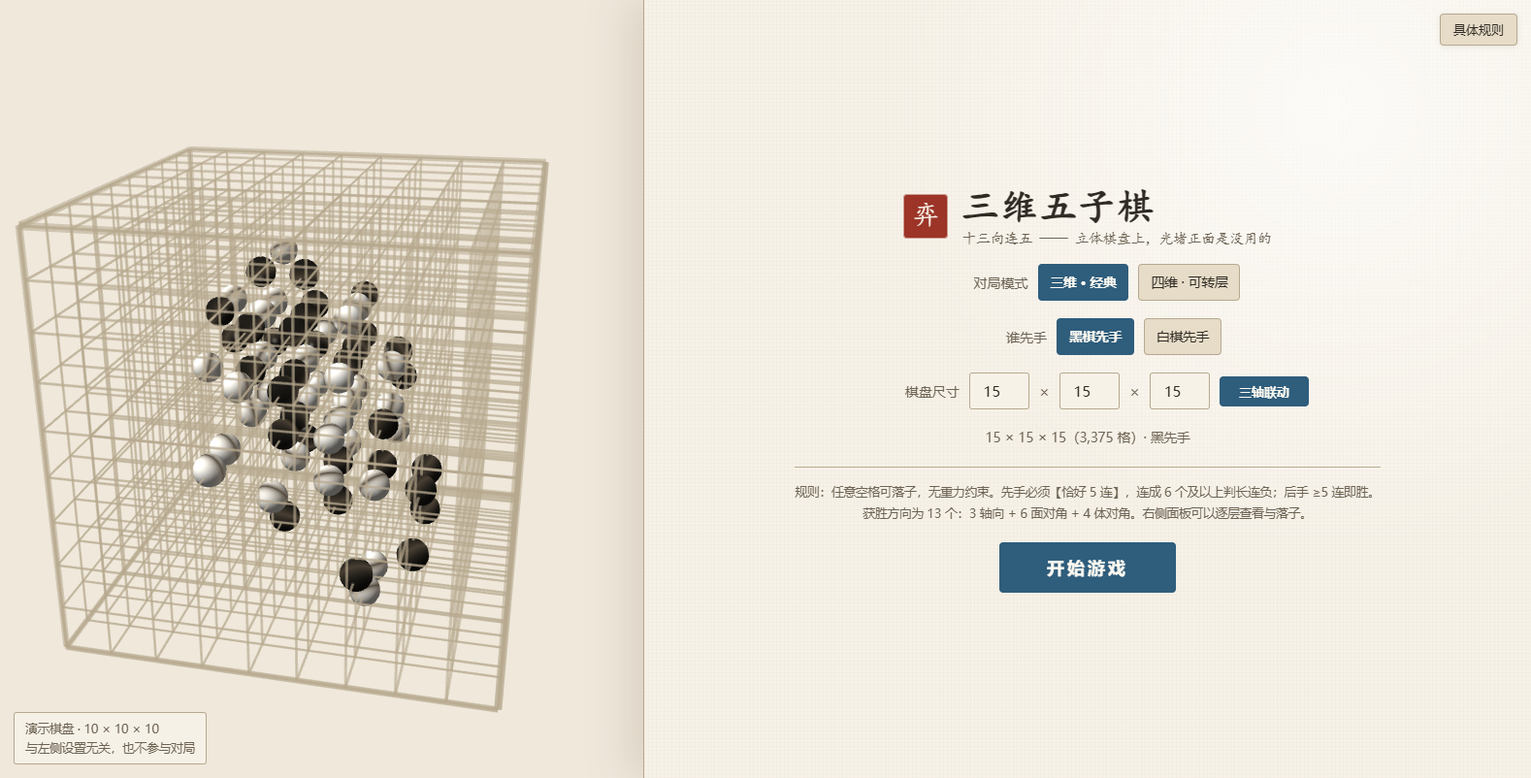
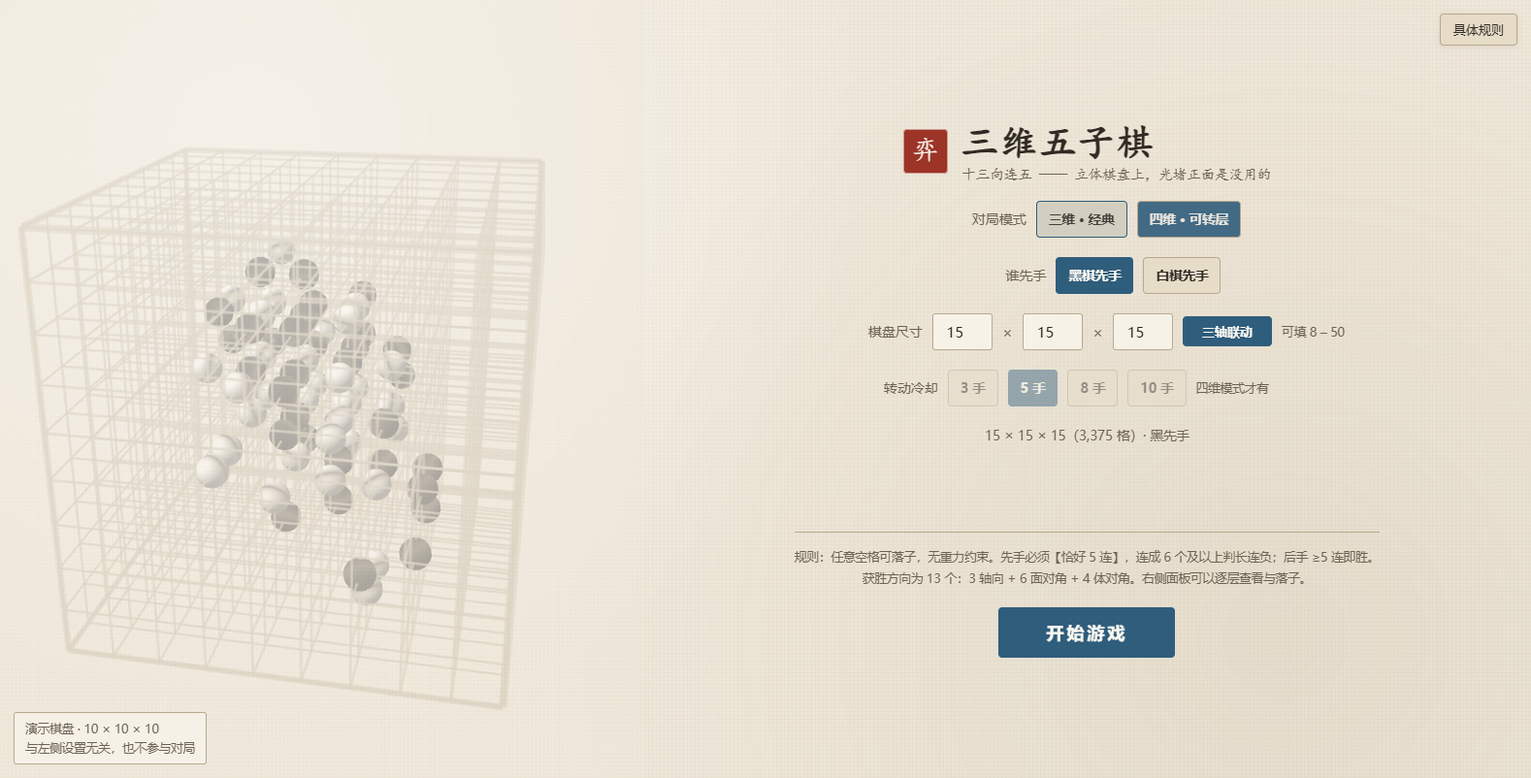
起始界面：模式切换时按钮不动、标出尺寸范围、消除左右接缝
三条都是起始界面的体验问题。核心约束是**演示棋盘一个像素都不动** ——
所以 `#view` 的 flex-basis 和 `#setup` 的 left 仍然是同一个 42%，没碰。

一、按钮位置（原来是两个跳动源，不是一个）

  ① 模式相关的三行原来用 display:none 切换，行数一变、居中的整列重排，所有行一起跳。
     改成保留槽位地藏（visibility:hidden），两种模式总高恒等。
  ② #sizeSummary 的文案长度在两种模式间差一倍以上（三维 2 行、四维最多 6 行），
     它下面的规则摘要和「开始游戏」按钮照样跳。给它固定高度，写不下时内部滚动。

  顺带：
  - 三维/四维的尺寸行叠进同一个网格格子里（#dimsSlot）。格子高度取两者的 max，
    而两条**永远都在格子里**（只是其中一条不可见），所以无论窗口多窄、哪一条换了行，
    高度都和"显示哪一条"无关 —— 这让 .row 可以保留 flex-wrap: wrap 而不引入位移。
    不叠的话两种模式各会多出一条 58px 的空当，看起来像没渲染完。
  - 「转动冷却」行在三维下也占槽位（按钮禁用 + "四维模式才有"），不是藏起来。
  - #setup 里所有行内按钮固定成粗体。原来 button.sel 带 font-weight:600，
    取消选中后字变细、按钮变窄（实测 94→91px），同一行居中的邻居跟着挪。

二、尺寸范围：三维行和四维行右侧各加一个「可填 8 – 50」。
  文字由 JS 从内核的 BoardLimits 现算，不写死在 HTML 里。
  四维那句"必须立方（转层要求另两轴等长）"原来是独立的 <span id="dimNote">，
  并进了同一个标注里 —— 它是那一行唯一会换行的地方，而换行会让槽位不等高。

三、接缝：成因不是色差（画布清屏色本来就是 --bg，和页面底色同色），
  而是**纸纹只画在 <body> 上、被画布盖住了左边 42%**。修法：
  - #setup 去掉背景、border-left、box-shadow（割裂感来自这三样）
  - #view 补上同一份纸纹，并用 background-attachment: fixed 让渐变的定位基准是
    整个视口而不是那个 42% 宽的盒子；没有 fixed 的话两边纸纹对不上，缝还在
  - #gl 用 CSS opacity 压淡演示棋盘。**不碰调色板和着色器** ——
    演示盘和对局盘共用同一个 draw3D()，改调色板会把真棋盘也改淡，
    而淡底上白子只有 1.3:1 对比度，全靠 --stone-edge 那圈描边才看得见
  - 纸纹抽成 :root 里的 --paper-img，两边共用一份，避免抄两份后各自漂移

browser-check 断言：换掉 1 条（旧设计要求 #setup 不透明；新设计要求它透明，
所以改成守那个真正的前提 —— #panel 必须隐藏），新增 14 条，其中
「切到四维再切回来，按钮的 l/t/w/h 完全不变」是核心 —— 那条**只有真实排版引擎能验**，
DOM 桩的 getBoundingClientRect 对所有元素一律返回 800×600，在桩里恒真。
窄屏那组带一条反空洞断言：先确认 900×700 下尺寸行确实换了行，否则后面那条是空断言。
[…]

diff --git a/Web_Gomoku3D/index.html b/Web_Gomoku3D/index.html
@@ -40,19 +40,22 @@
     /* 棋子描边色。淡底上白子和底色只有 1.3:1，光靠填充色是看不见的，
        必须靠这圈深色轮廓才能读出来 —— 二维面板和三维着色器用的是同一个颜色。 */
     --stone-edge: #4a4034;
-  }
-  * { box-sizing: border-box; }
-  /* 宣纸质感：全部用 CSS 渐变叠出来，不引任何外部图片 —— 这是 file:// 单文件的前提。
-     两个大半径 radial 当晕染，两组 1px 交叉细纹当纸纤维（alpha 只有 0.03，
-     是"能感觉到"的量级，再高就变成条纹布了）。 */
-  .paper {
-    background-color: var(--bg);
-    background-image:
+    /* 宣纸质感：全部用 CSS 渐变叠出来，不引任何外部图片 —— 这是 file:// 单文件的前提。
+       两个大半径 radial 当晕染，两组 1px 交叉细纹当纸纤维（alpha 只有 0.03，
+       是"能感觉到"的量级，再高就变成条纹布了）。
+
+       【为什么它是变量而不是直接写在 .paper 里】：三维画布也要用同一份 ——
+       见下面的 `#stage.preview #view`。两边各抄一份的话，改了这里忘了那里，
+       起始界面左右之间就会重新裂出一条缝，而且那种缝看起来像"显示器问题"，
+       不像代码问题。 */
+    --paper-img:
       radial-gradient(circle at 16% 18%, rgba(255,255,255,.60), transparent 44%),
       radial-gradient(circle at 84% 82%, rgba(150,126,86,.11), transparent 50%),
       repeating-linear-gradient(0deg,  rgba(122,102,70,.030) 0 1px, transparent 1px 4px),
       repeating-linear-gradient(90deg, rgba(122,102,70,.030) 0 1px, transparent 1px 4px);
   }
+  * { box-sizing: border-box; }
+  .paper { background-color: var(--bg); background-image: var(--paper-img); }
   html, body {
     margin: 0; padding: 0; height: 100%; overflow: hidden;
     color: var(--text);
@@ -76,6 +79,33 @@
      的 42% 跟着变宽、左侧画布尺寸跳一下。visibility:hidden 保留布局，只是不画。 */
   #stage.preview #panel { visibility: hidden; }
   #stage.preview #gl { cursor: default; }
+
+  /* 起始界面：把左边的三维画布也铺上一层纸纹，让左右真的是同一张纸。
+
+     缝的真正成因不是色差（画布清屏色和页面底色都是 --bg，本来就同色），而是
+     **纸纹只画在 <body> 上，被画布盖住了左边 42%** —— 左边是平色、右边有纸纹
+     （那个 rgba(255,255,255,.60) 的白色径向在 16% 18% 处，强度不低），
+     于是在 42% 那条线上断掉。
+
+     关键是 `background-attachment: fixed`：它让渐变的【定位基准是整个视口】，
+     而不是 #view 自己那个 42% 宽的盒子。没有它，同一个 "16% 18%" 在 #view 里
+     会落在 16% × 0.42 ≈ 视口 6.7% 处，右边却是 16%，两边对不上、缝还在。
+
+     background-color 是不透明的 --bg：把底下 <body> 的纸纹挡住，
+     否则这一层会和 body 那一层叠起来，左上角那个白色径向被叠加两次、明显偏亮。 */
+  #stage.preview #view {
+    background-color: var(--bg);
+    background-image: var(--paper-img);
+    background-attachment: fixed;
+  }
+  /* 演示棋盘整体压淡。**这里刻意用 CSS opacity，不去改调色板或着色器** ——
+     演示盘和对局盘共用同一个 draw3D() 和同一批着色器，改调色板等于把真棋盘也改淡，
+     而 README 里写着"淡底上白子和底色只有 1.3:1，全靠 --stone-edge 那圈描边才看得见"。
+     规则限定在 .preview 上，对局视图一个像素都不受影响。
+
+     画布的清屏色就是 --bg，所以压到 30% 之后自然叠成"淡墨画在纸上"，
+     而不是"深色棋盘的半透明残影"。 */
+  #stage.preview #gl { opacity: .3; }
 
   /* ---------- 左侧：三维视图 ---------- */
   #view { flex: 0 0 42%; position: relative; overflow: hidden; }
@@ -173,18 +203,29 @@
   /* ---------- 起始界面 ----------
      左边 42% 刻意【不盖住】—— 那一块留给 #view 里那张自动缓慢旋转的演示棋盘，
      所以这里用 left:42% 而不是 inset:0。42% 必须和上面 #view 的 flex-basis 是同一个数，
-     改一个就得改另一个，否则中间会裂出一条缝（或压掉半个棋盘）。 */
+     改一个就得改另一个，否则中间会裂出一条缝（或压掉半个棋盘）。
+
+     【这里刻意什么都不画】。原来它是一块 --panel 色的不透明盖板，外加一条
+     border-left 和一片向左的 box-shadow —— 那三样加起来就是"左右割裂感"的全部来源，
+     不是色差本身：三维画布的清屏色本来就是 --bg（见 Renderer.init 里的 clearColor），
+     和页面底色是同一个色。所以只要这边不画东西、左侧的纸纹补上（见下面
+     `#stage.preview #view` 那一条），左右就是同一张纸，中间没有缝。
+
+     透明会不会让底下的字透上来？不会 —— 底下是 #panel，而起始界面打开时它是
+     visibility:hidden（见 #stage.preview #panel），一个字都不画。
+     这条依赖是硬性的：那个 hidden 一旦被去掉，这里就会透出面板的文字。
+     browser-check.mjs 里有一条断言同时守着这两件事。 */
   #setup {
     position: fixed; left: 42%; right: 0; top: 0; bottom: 0; z-index: 50;
-    display: flex; flex-direction: column; align-items: center; justify-content: center;
+    display: flex; flex-direction: column; align-items: center;
     gap: 18px; padding: 26px 30px; overflow-y: auto;
-    background-color: var(--panel);   /* 不透明。半透明盖板会让底下的字透上来 */
-    background-image:
-      radial-gradient(circle at 78% 14%, rgba(255,255,255,.7), transparent 46%),
-      repeating-linear-gradient(0deg,  rgba(122,102,70,.028) 0 1px, transparent 1px 4px),
-      repeating-linear-gradient(90deg, rgba(122,102,70,.028) 0 1px, transparent 1px 4px);
-    border-left: 1px solid var(--border);
-    box-shadow: -18px 0 40px rgba(90,72,44,.13);
+    /* 居中，但溢出时改为从顶部开始 —— 这是 safe 关键字的全部作用。
+       没有它的话（也就是今天的行为），内容一旦高过视口，flex 的居中溢出会朝两头走，
+       而滚动区只从内容起点算 → **顶部那段永远滚不到**，表现为"最上面几行看不见了"。
+       第一行是给不认识 safe 的浏览器兜底的：它们会沿用 center，行为与改动前一致，
+       不是回归。 */
+    justify-content: center;
+    justify-content: safe center;
   }
   #setup.off { display: none; }
   /* 演示棋盘角落的铭牌。少了它，从对局里点「设置」进来的人会以为自己的棋局还在 ——
@@ -208,8 +249,36 @@
   #setup h1 { font-size: 38px; margin: 0; font-weight: 600; letter-spacing: 2px; }
   #setup .sub { color: var(--dim); font-size: 14.5px; margin-top: 4px; }
   .row { display: flex; align-items: center; gap: 10px; flex-wrap: wrap; justify-content: center; }
-  /* 模式相关的行：用 hide 而不是 style.display，免得和 .row 的 flex 打架 */
-  #setup .row.hide { display: none; }
+  /* 每一行占一个固定高度的槽位。三种模式相关的行（三维尺寸 / 四维尺寸 / 转动冷却）
+     高度都一样，所以"显示哪几行"不影响总高。 */
+  #setup .row { min-height: 40px; }
+  /* 模式相关的行：【保留槽位地藏起来】，不是 display:none。
+     三维和四维显示的行数不一样（四维多一个"转动冷却"行），用 display:none 的话
+     内容总高就变了，而父级是居中的 —— 于是整列重新居中，所有行一起上下跳。
+     保留槽位之后两种模式的总高**恒等**，按钮一个像素都不动。
+
+     .row 保持 flex-wrap: wrap（窗口窄的时候能换行），这本来会造成"换行的那一行更高、
+     槽位不等高"，但两条尺寸行被 #dimsSlot 叠进了同一个格子 ——
+     格子高度取两者的 max，而**两条永远都在格子里**（只是其中一条不可见），
+     所以无论窗口多窄、哪一条换了行，格子高度都和"显示哪一条"无关。
+     换成 nowrap 反而更糟：实测 900px 宽的窗口下三维尺寸行要 539px 而只有 462px 可用，
+     会横向溢出 —— 那就把"按钮跳动"换成了"内容被截掉"，更难发现。 */
+  #setup .row.hide { visibility: hidden; }
+  /* 三维尺寸行和四维尺寸行**叠在同一个网格单元格里**：两条都 40px，叠起来还是 40px，
+     而隐藏的那条（visibility:hidden）不额外占位。于是"显示哪一条"完全不改变总高，
+     两种模式下都是零空白 —— 留空槽位的话两种模式各会多出一条 58px 的空当。
+     副作用是好的：单元格宽度取两条里较宽的那条（三维行），所以两种模式下
+     "棋盘尺寸"这个标签的横坐标**也**是同一个；不叠的话它会随各自行的宽度左右挪。 */
+  #dimsSlot { display: grid; }
+  #dimsSlot > .row { grid-area: 1 / 1; }
+  /* 起始界面里每一行的按钮**始终**是粗体，选中态只改底色和字色。
+     起因是一个只有真实排版引擎才能发现的 3px 位移：button.sel 带 font-weight:600，
+     所以按钮一被取消选中，字变细、按钮跟着变窄（实测 94 → 91px），
+     而同一行是居中的 —— 邻居跟着挪。点一下"四维"结果"三维"跑偏了 3px，
+     正是这一版要消掉的那类干扰。
+     固定成粗体之后，按钮宽度只由文字内容决定，和选没选中无关。
+     （#startBtn 不在任何 .row 里，所以它保留 .sel 的粗体，主按钮的分量不受影响。） */
+  #setup .row button { font-weight: 600; }
   .rowLabel { color: var(--dim); width: 96px; text-align: right; flex: 0 0 auto; }
 
   /* 尺寸输入。原来是两排固定尺寸按钮（三维 15/20/25/30/40/50、四维 5/6/8/10/15/20），
@@ -223,10 +292,23 @@
   .dimInput.bad { border-color: var(--danger); color: var(--danger); }
   .dimTimes { color: var(--dim); font-size: 15px; }
   #dimCube { min-width: 92px; }
-  #dimNote { color: var(--dim); font-size: 12px; }
+  /* 行尾的补充说明（尺寸范围、转动冷却的注释）。文字全部由 JS 生成，不写死在 HTML 里 ——
+     写死的话它会和内核的实际约束各自漂移，而"范围"这种东西漂移了没人会发现，
+     只会表现为"填进去了但开不了局"。 */
+  .hint { color: var(--dim); font-size: 12.5px; white-space: nowrap; flex: 0 0 auto; }
+  /* 转动冷却行的说明。**宽度写死**：它的文字在两种模式下不一样长（三维 6 字、
+     四维 9 字），不写死的话这一行的总宽会变，而 .row 是居中的 ——
+     "转动冷却"四个字会跟着左右挪。写死了，两种模式下它一个像素都不动。 */
+  #coolNote { width: 11em; }
 
+  /* 固定高度。【这是按钮跳动的第二个根因，比行数变化更隐蔽】：
+     这段文案的长度在两种模式下差一倍以上 —— 三维 15³ 是 2 行，四维 8³ 因为有实测数据
+     会加到 4 行，15³ 再加"一层里常常只有一两颗子"那条能到 5~6 行。
+     不钉住它，下面的规则摘要和「开始游戏」按钮照样跟着上下跳。
+     写不下时在这块内部滚动，不影响外部布局。 */
   #sizeSummary { color: var(--dim); font-size: 13.5px; text-align: center; max-width: 640px;
-                 line-height: 1.7; white-space: pre-line; }
+                 line-height: 1.7; white-space: pre-line;
+                 height: 92px; overflow-y: auto; }
   #ruleNote { color: var(--dim); font-size: 12.5px; text-align: center; max-width: 660px;
               line-height: 1.8; border-top: 1px solid var(--border); padding-top: 14px; }
   #startBtn { font-size: 18px; font-weight: 600; padding: 13px 48px; letter-spacing: 3px; }
@@ -661,6 +743,12 @@
     <button id="firstWhite" data-first="2">白棋先手</button>
   </div>
 
+  <!-- 三维和四维的尺寸行**共用同一个槽位**（网格叠放，见 CSS 里的 #dimsSlot）。
+       两条都是 40px 高，所以叠起来还是 40px；隐藏的那条 visibility:hidden 不额外占位。
+       这样"三维显示哪条、四维显示哪条"完全不改变总高 —— 槽位重叠是这里唯一能做到
+       "零空白 + 零位移"的办法：留空槽位会在两种模式各留一条 58px 的空当，
+       看起来像没渲染完。 -->
+  <div id="dimsSlot">
   <!-- 三维模式：三个轴各填一个数，8..50。默认三轴联动（cubeOn），想下长方体就点掉它。
        长方体是【网页版独有】的扩展，没有测试向量覆盖，见 README 的说明。 -->
   <div class="row" id="dimsRow3d">
@@ -671,6 +759,10 @@
     <span class="dimTimes">×</span>
     <input id="dimZ" class="dimInput" type="number" min="8" max="50" step="1" value="15" inputmode="numeric">
     <button id="dimCube" class="mini sel">三轴联动</button>
+    <!-- 可填范围。**内容是空的**：文字由 syncSetupInputs() 从内核的 BoardLimits 现算，
+         一个字都不写死在这里 —— 写死的话它会和内核约束各自漂移，而"范围"这种东西
+         漂移了没人会发现，只表现为"填进去了但开不了局"。 -->
+    <span id="dimRange" class="hint"></span>
   </div>
 
   <!-- 四维模式：只能立方。不是"没做"，是数学上不成立 —— 绕某轴转一层要求
@@ -679,15 +771,28 @@
     <div class="rowLabel">棋盘尺寸</div>
     <input id="dimN" class="dimInput" type="number" min="8" max="50" step="1" value="8" inputmode="numeric">
     <span class="dimTimes">³</span>
-    <span id="dimNote">四维模式必须立方 —— 转层要求两个自由轴等长</span>
+    <!-- 原来这里还有一条 <span id="dimNote">，文本同下（"必须立方…"），但它是个独立的
+         长句子。删掉它的理由：那一行本来就长，而它正是四维/三维尺寸行唯一会换行的地方 ——
+         一旦换行，两个模式的槽位就不等高，按钮又开始跳。
+         现在这句话并进了紧跟其后的范围标注（由 syncSetupInputs 生成），
+         那一行有富余的宽度，不需要再单开一个元素。 -->
+    <span id="dimRange4d" class="hint"></span>
+  </div>
   </div>
 
-  <div class="row hide" id="coolRow">
+  <!-- 转动冷却。**这一行在三维模式下也占着槽位**（只是按钮禁用），不是藏起来 ——
+       藏起来的话四维就比三维多一行，居中的整列会重新排，所有按钮一起上下跳。
+       禁用而不是隐藏还有一个好处：三维下这块不会留下一片说不清是什么的空白，
+       而且"四维还有个转动冷却可以选"这件事变得可见。
+       HTML 里先写死 disabled：默认就是三维，JS 还没跑起来之前状态也得是对的。
+       #coolNote 的宽度在 CSS 里写死，理由见那条规则。 -->
+  <div class="row" id="coolRow">
     <div class="rowLabel">转动冷却</div>
-    <button class="coolBtn" data-cool="3">3 手</button>
-    <button class="coolBtn sel" data-cool="5">5 手</button>
-    <button class="coolBtn" data-cool="8">8 手</button>
-    <button class="coolBtn" data-cool="10">10 手</button>
+    <button class="coolBtn" data-cool="3" disabled>3 手</button>
+    <button class="coolBtn sel" data-cool="5" disabled>5 手</button>
+    <button class="coolBtn" data-cool="8" disabled>8 手</button>
+    <button class="coolBtn" data-cool="10" disabled>10 手</button>
+    <span id="coolNote" class="hint"></span>
   </div>
 
   <div id="sizeSummary"></div>
@@ -2219,6 +2324,7 @@ const Game = {
       "setup","firstBlack","firstWhite","sizeSummary","startBtn","view","stage","previewTag",
       "rulesBtn","rulesPanel","rulesClose","rulesBody","rulesSrc",
       "mode3d","mode4d","dimsRow3d","dimsRow4d","coolRow","dimX","dimY","dimZ","dimN","dimCube",
+      "dimRange","dimRange4d","coolNote",
       "rotPanel","rotStatus","rotLayerDown","rotLayerUp","rotLayerLabel",
       "rotCW","rotCCW","rotGo","rotRestore","rotHint"];
     for (const id of ids) this.el[id] = document.getElementById(id);
@@ -2733,6 +2839,7 @@ const Game = {
     this.el.stage.classList.add("preview");
     this.setHover(null);
     this.syncSetupInputs();
+    this.syncCoolRow();
     this.refreshSetupSummary();
     this.ensurePreview();
     this.uploadPreviewInstances();
@@ -3600,6 +3707,16 @@ const Game = {
       if (this.el[id]) this.el[id].classList.remove("bad");
     }
     if (this.el.dimCube) this.el.dimCube.classList.toggle("sel", this.setupCube);
+    // 可填范围。**从 BoardLimits 现算，不写死在 HTML 里** ——
+    // 输入框上已经有一份 min/max（浏览器自带的上下箭头和校验用它），
+    // 那一份由 dom-smoke 断言和 BoardLimits 相等。显示文本这里直接生成，
+    // 连"第二份"都不存在，所以它不可能和实际会被夹取的范围不一致。
+    const range = "可填 " + BoardLimits.Min + " – " + BoardLimits.Max;
+    if (this.el.dimRange) this.el.dimRange.textContent = range;
+    // 四维那句"必须立方"的说明并进这里（原来是个独立的 <span id="dimNote">）。
+    // 短横线后面那句是**原因**：绕某轴转一层要求另外两个自由轴等长，
+    // 三个轴都能转就只能 nx = ny = nz。不是"没做"，是数学上不成立。
+    if (this.el.dimRange4d) this.el.dimRange4d.textContent = range + " · 必须立方（转层要求另两轴等长）";
   },
 
   /**
@@ -3647,7 +3764,9 @@ const Game = {
     this.el.mode4d.classList.toggle("sel", fourD);
     this.el.dimsRow3d.classList.toggle("hide", fourD);
     this.el.dimsRow4d.classList.toggle("hide", !fourD);
-    this.el.coolRow.classList.toggle("hide", !fourD);
+    // 转动冷却行**始终占着槽位**，只切按钮的禁用态和结尾那句说明 ——
+    // 藏起来的话四维会比三维多一行，居中的整列重新排、按钮全跳。见 #coolRow 的注释。
+    this.syncCoolRow();
     // 换模式时把尺寸重置成本模式的默认值（三维 15、四维 8）。
     // 不这么做就会出现"切到四维、输入框里还留着三维的数"这类对不上的状态。
     if (fourD) {
@@ -3658,6 +3777,26 @@ const Game = {
     }
     this.syncSetupInputs();
     this.refreshSetupSummary();
+  },
+
+  /**
+   * 转动冷却行的两种状态：三维 = 按钮禁用 + "四维模式才有"，四维 = 可用 + 一句提示。
+   *
+   * 为什么不切换显隐：见 #coolRow 的 HTML 注释 —— 隐藏会让四维比三维多一行，
+   * 而 #setup 是居中的，多一行就整列重排、按钮全跳。
+   *
+   * 这里用 document.querySelectorAll(".coolBtn") 而不是 this.el.coolRow.querySelectorAll(...)：
+   * dom-smoke 的桩元素上**没有** querySelectorAll 这个方法（只有 document 上有，
+   * 而且只认 ".rotAxis" / ".rotTurns" / ".coolBtn" 三个选择器字符串）。
+   * 写成后者会在桩里直接抛 TypeError —— 而那个报错看起来和"冷却行"毫无关系，很难查。
+   * 与 bindUi 里保持同一种写法。
+   */
+  syncCoolRow() {
+    const on = this.fourD;
+    document.querySelectorAll(".coolBtn").forEach(b => { b.disabled = !on; });
+    if (this.el.coolNote) {
+      this.el.coolNote.textContent = on ? "转动会占掉一个回合" : "四维模式才有";
+    }
   },
 
   setSetupCool(c) {

diff --git a/打开流程.md b/打开流程.md
@@ -21,7 +21,7 @@
 
 | 检查 | 期望 |
 |---|---|
-| 起始界面 | 左侧一张缓慢自转的 10×10×10 演示棋盘（古风配色），右侧设置卡片 |
+| 起始界面 | 左侧一张缓慢自转的 10×10×10 演示棋盘（**压淡**，当背景用），右侧设置区 **和左侧是同一张纸、中间没有缝** |
 | 选先手 / 尺寸 → 点「开始游戏」 | 进入对局 |
 | 左侧按住左键拖拽 | 棋盘跟着转 |
 | 滚轮 | 缩放 |
@@ -46,7 +46,7 @@ bash _verify/run-all.sh
 
 七步（第 7 步可选）。**不需要 Unity，也不需要 .NET，只要有 node。**
 
-期望结果：11733 + 19408 + 98 + 53 + 49 = **31341 项断言全绿**。
+期望结果：11733 + 19408 + 98 + 53 + 63 = **31355 项断言全绿**。
 
 单跑某一项：
 
@@ -56,7 +56,7 @@ bash _verify/run-all.sh
 | `node Web_Gomoku3D/tests/rotation.test.mjs` | 19408（四维转动一致性） |
 | `node Web_Gomoku3D/tests/dims.test.mjs` | 98（长方体 + 尺寸约束） |
 | `node Web_Gomoku3D/tests/dom-smoke.test.mjs` | 53（界面桩环境） |
-| `node _verify/browser-check.mjs` | 49（真实无头浏览器；没装浏览器会自动跳过） |
+| `node _verify/browser-check.mjs` | 63（真实无头浏览器；没装浏览器会自动跳过） |
 
 第 7 步的截图落在 `_verify/shots/`。
 
@@ -83,6 +83,6 @@ shell 会把它拆成多个参数，然后拼出一个不存在的路径并**静
 | 配色好不好看、三维观感 | A 节逐条看 |
 | 交互手感（拖拽阈值、拾取精度、缩放速率） | A 节 |
 | 四维转动的可读性（绿框在密集格网里会不会看糊、转完"唰"地一下的手感） | A 节开一局四维 |
-| 窄屏布局（起始界面演示盘与设置卡片会不会打架） | 把窗口拖窄看 |
+| 比 900×700 更窄的窗口 | browser-check 已经自动验过 900×700（无横向滚动、切模式时按钮不动），更窄的还得你拖窄了看 |
 
-其余部分（31341 项断言）都已经真实跑过并通过。
+其余部分（31355 项断言）都已经真实跑过并通过。

diff --git a/README.md b/README.md
@@ -57,7 +57,7 @@ bash _verify/run-all.sh
 七步，期望结果：
 
 ```
-11733 + 19408 + 98 + 53 + 49 = 31341 项断言全绿
+11733 + 19408 + 98 + 53 + 63 = 31355 项断言全绿
 ```
 
 第 7 步（真实无头浏览器检查）是可选的：本机没装 Chrome/Edge 会自动跳过，不算失败。
@@ -71,7 +71,7 @@ bash _verify/run-all.sh
 | `node Web_Gomoku3D/tests/rotation.test.mjs` | 19408 | 四维转动一致性 |
 | `node Web_Gomoku3D/tests/dims.test.mjs` | 98 | 长方体棋盘 + 尺寸约束 |
 | `node Web_Gomoku3D/tests/dom-smoke.test.mjs` | 53 | 界面桩环境 |
-| `node _verify/browser-check.mjs` | 49 | 真实浏览器（GLSL 编译、布局几何、控制台报错） |
+| `node _verify/browser-check.mjs` | 63 | 真实浏览器（GLSL 编译、布局几何、控制台报错） |
 
 ### 关于"冻结的向量"
 
